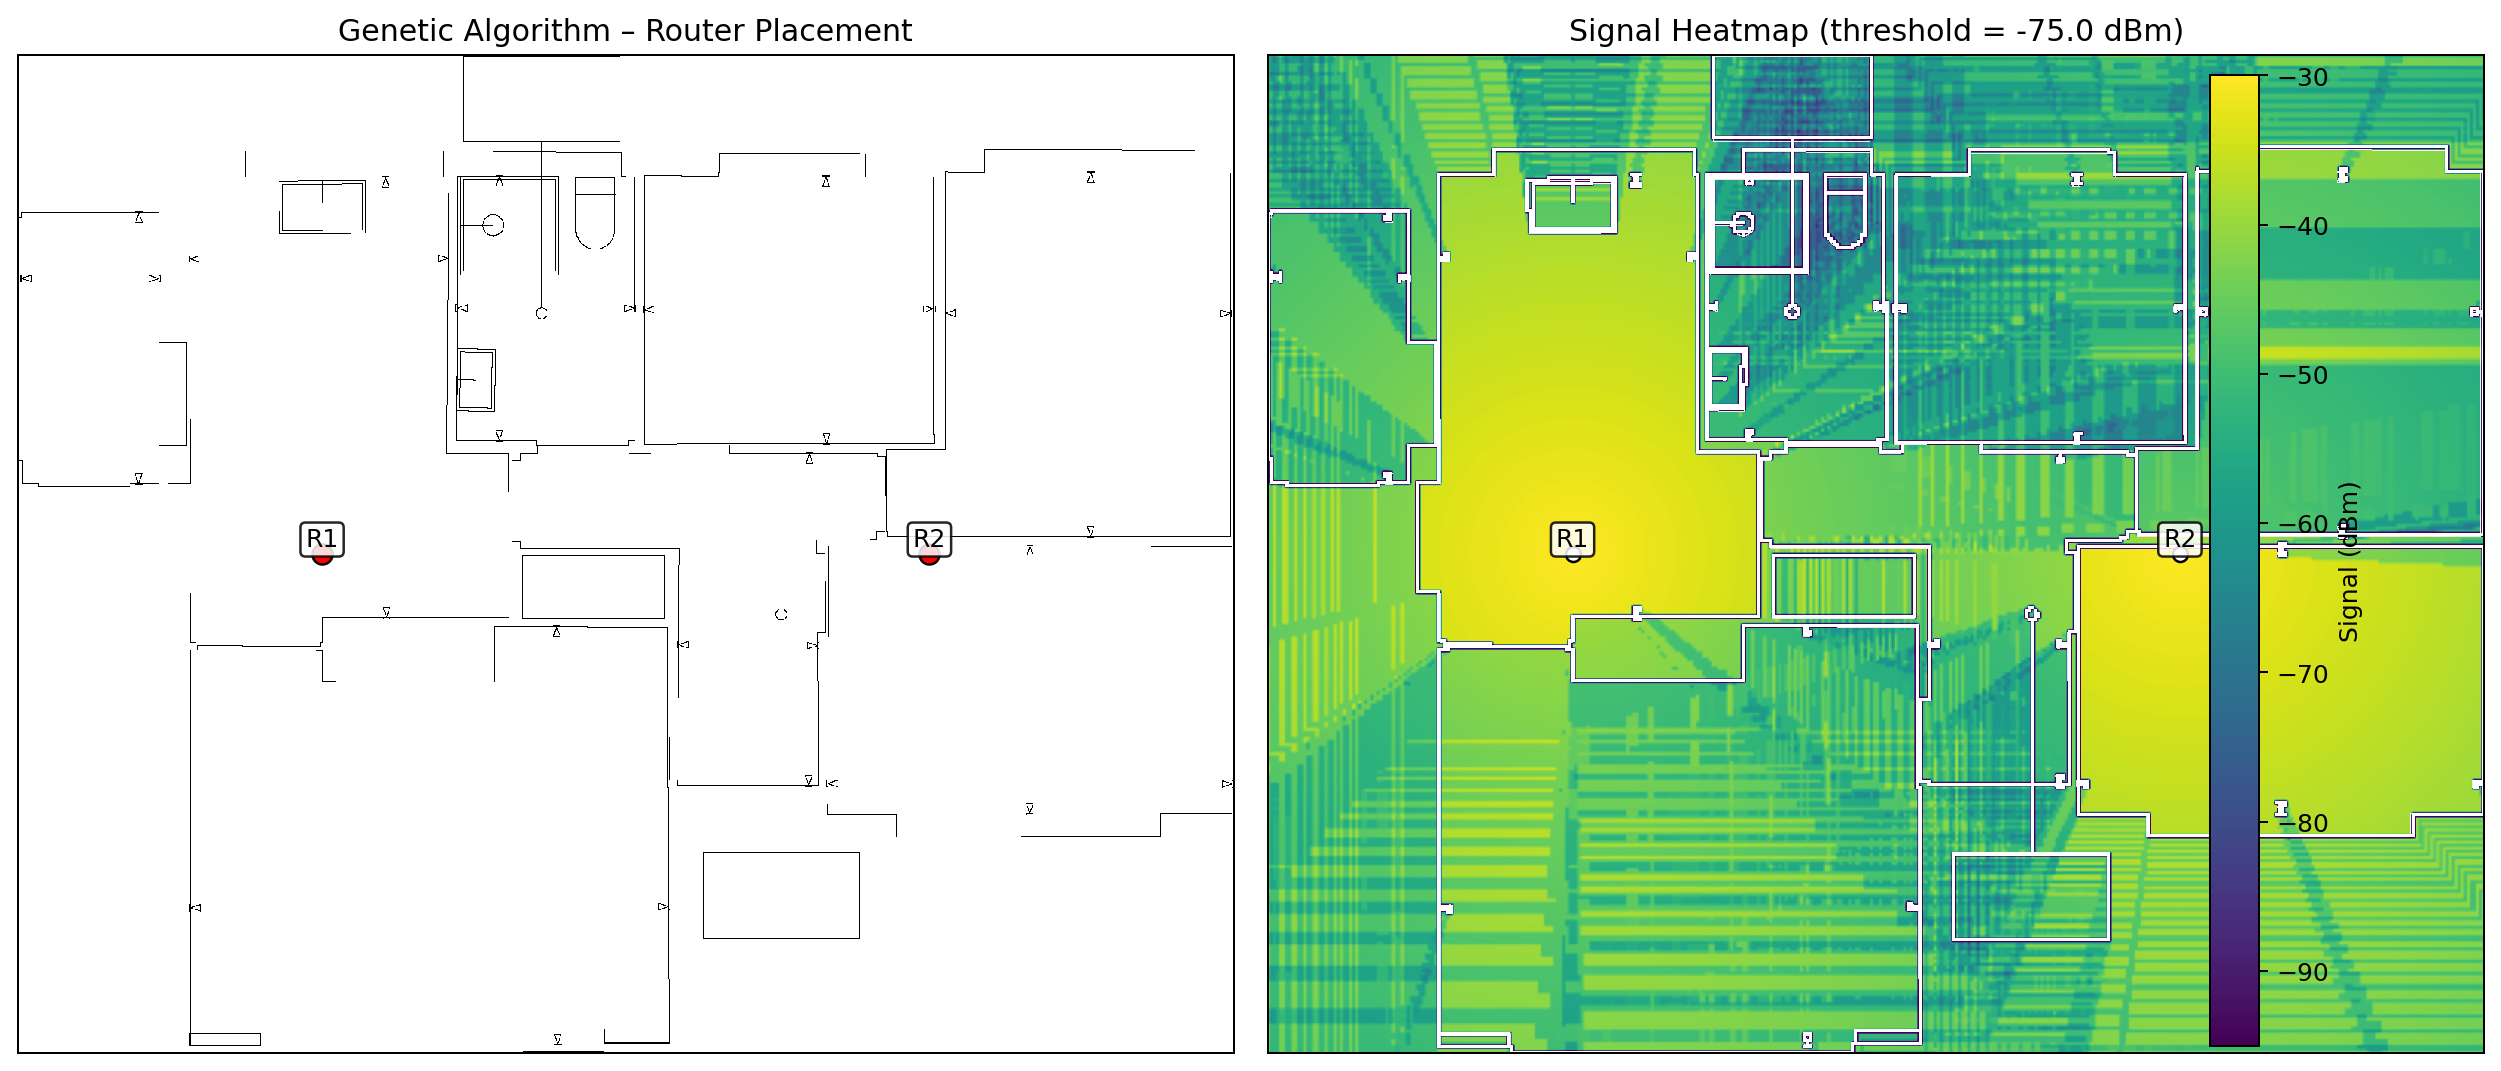
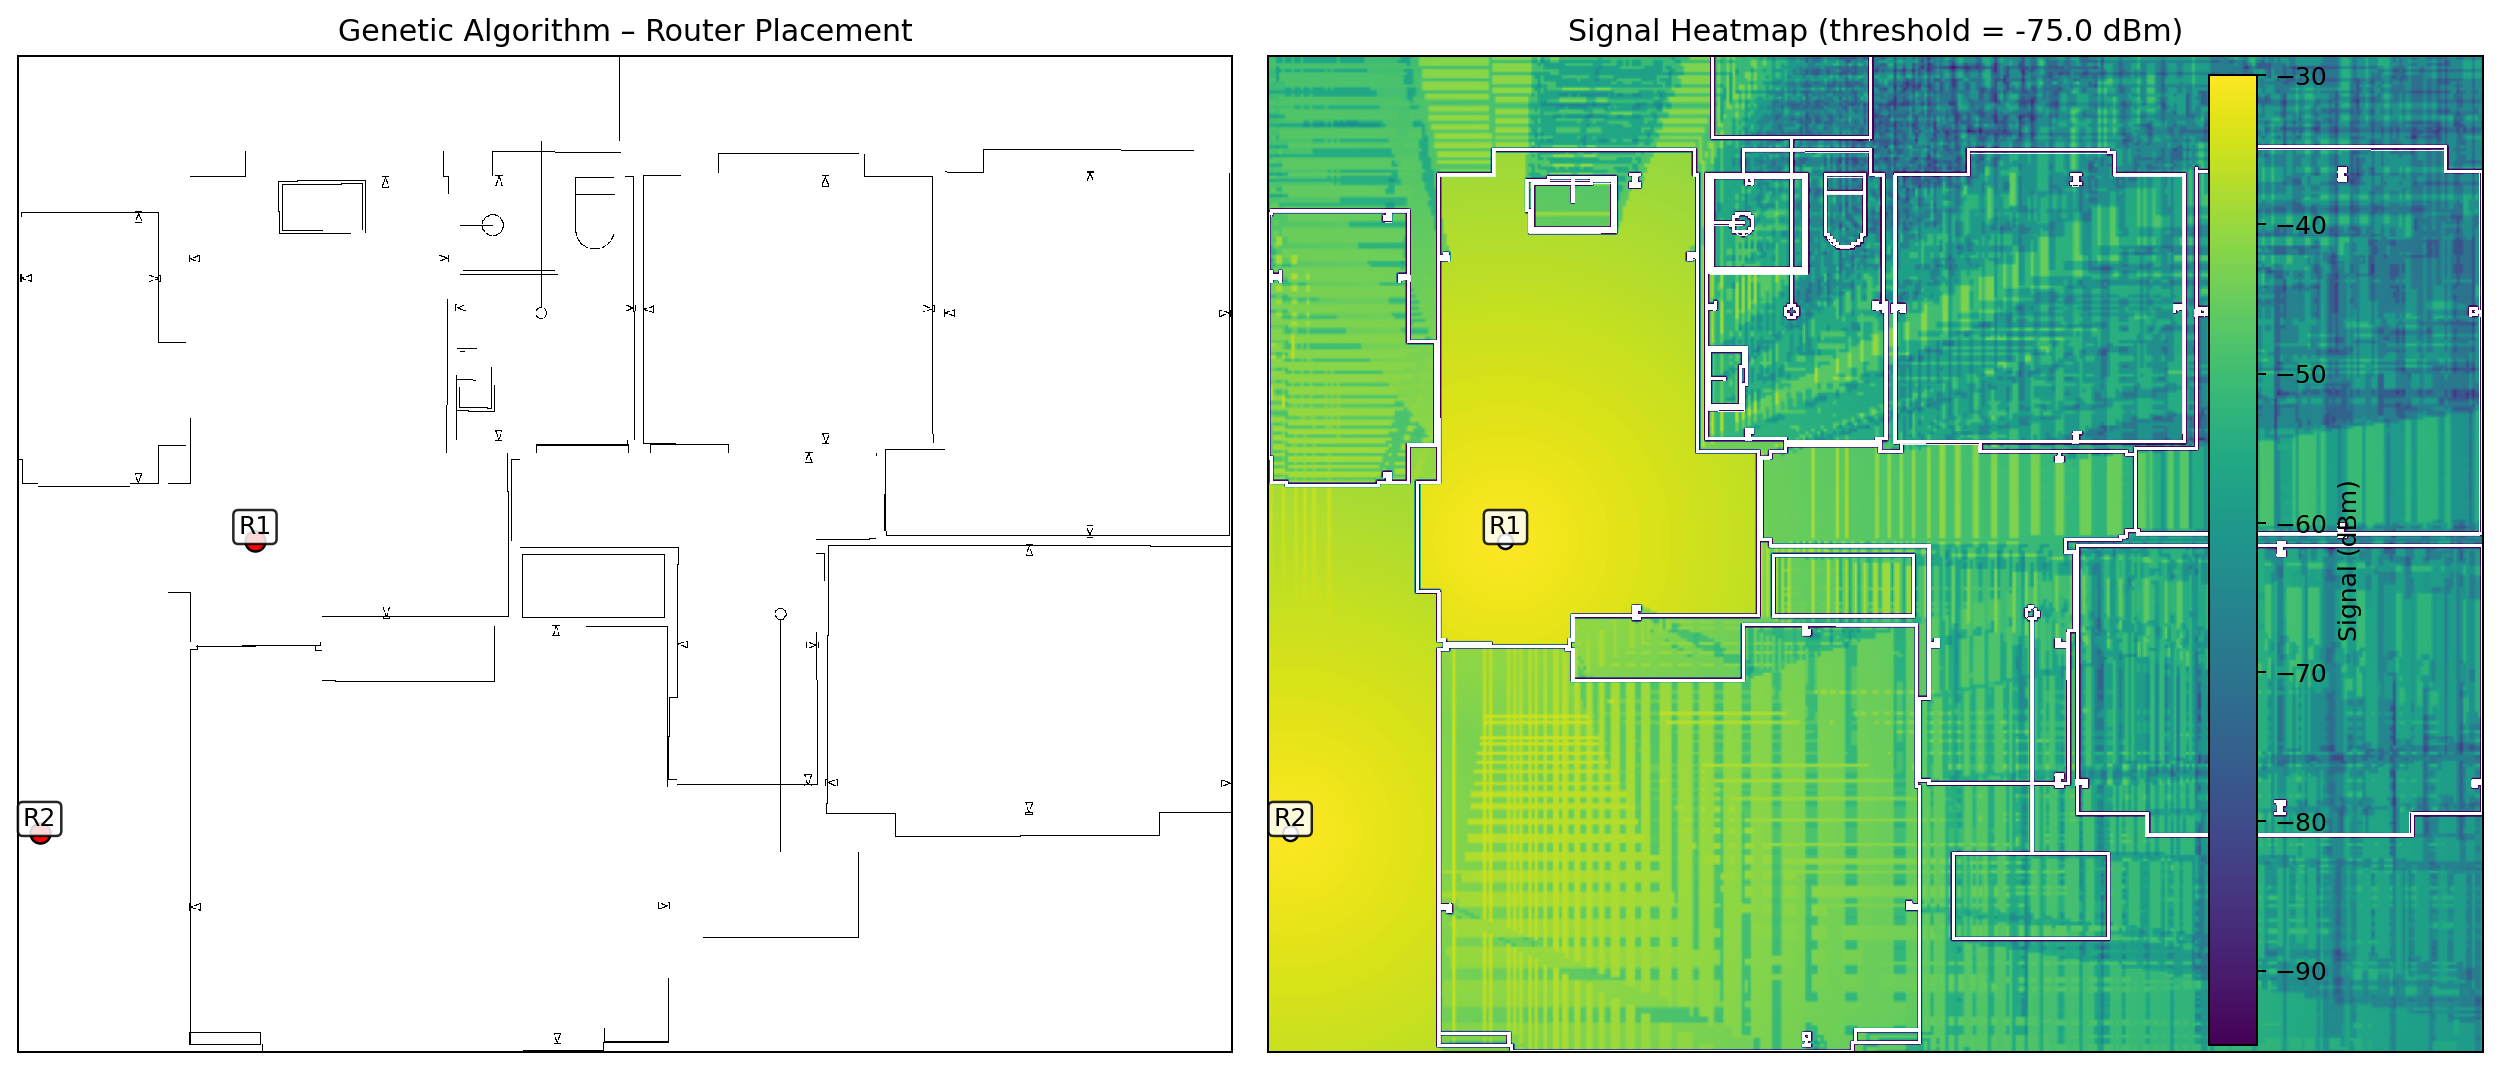
Make placement strategies produce distinct results
Update the genetic algorithm initialization to ensure diverse starting points and allow the random placement strategy to use a non-fixed seed, resulting in unique outcomes for each run.

Replit-Commit-Author: Agent
Replit-Commit-Session-Id: 8a9ac715-13c0-4d53-a1d7-ec6735ffe544
Replit-Commit-Checkpoint-Type: full_checkpoint
Replit-Commit-Event-Id: 6e095355-074d-435f-9bfa-40c3d3e8aedb
Replit-Commit-Screenshot-Url: https://storage.googleapis.com/screenshot-production-us-central1/68abd7b5-0b85-4e3e-a3d4-29f119f7cc09/8a9ac715-13c0-4d53-a1d7-ec6735ffe544/8UuTa6K
Replit-Helium-Checkpoint-Created: true

diff --git a/optimization.py b/optimization.py
@@ -192,12 +192,9 @@ def _run_ga(grid, num_routers, population_size=15, generations=16, seed=42):
     if num_routers > len(free):
         raise ValueError("num_routers exceeds number of free cells")
 
-    # Seed pop[0] with the uniform placement so we always start from a
-    # known-good spatially-spread solution
-    uniform_seed = uniform_placement(grid, num_routers)
-    pop = [uniform_seed]
-
-    # Fill remaining population with spatially diverse individuals
+    # Initialize entirely from spatial sectors so the GA explores the full
+    # building independently of the uniform or random strategies
+    pop = []
     while len(pop) < population_size:
         pop.append(_diverse_individual(free, num_routers, rng))
 
@@ -361,7 +358,8 @@ def run_optimization(strategy, num_routers, seed=42):
     if strategy == "ga":
         routers_opt = ga_placement(grid_opt, num_routers, seed=seed)
     elif strategy == "random":
-        routers_opt = random_placement(grid_opt, num_routers, seed=seed)
+        # No fixed seed — each run gives a genuinely different random placement
+        routers_opt = random_placement(grid_opt, num_routers, seed=None)
     elif strategy == "uniform":
         routers_opt = uniform_placement(grid_opt, num_routers)
     else:
